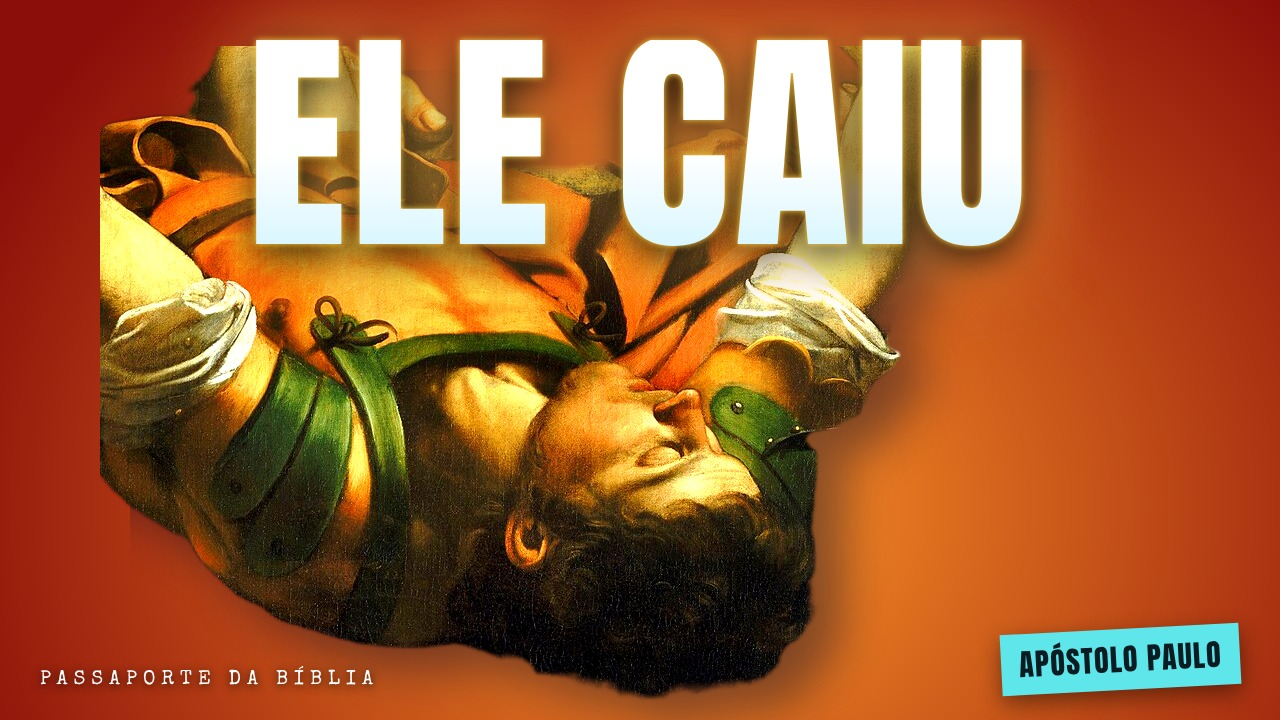
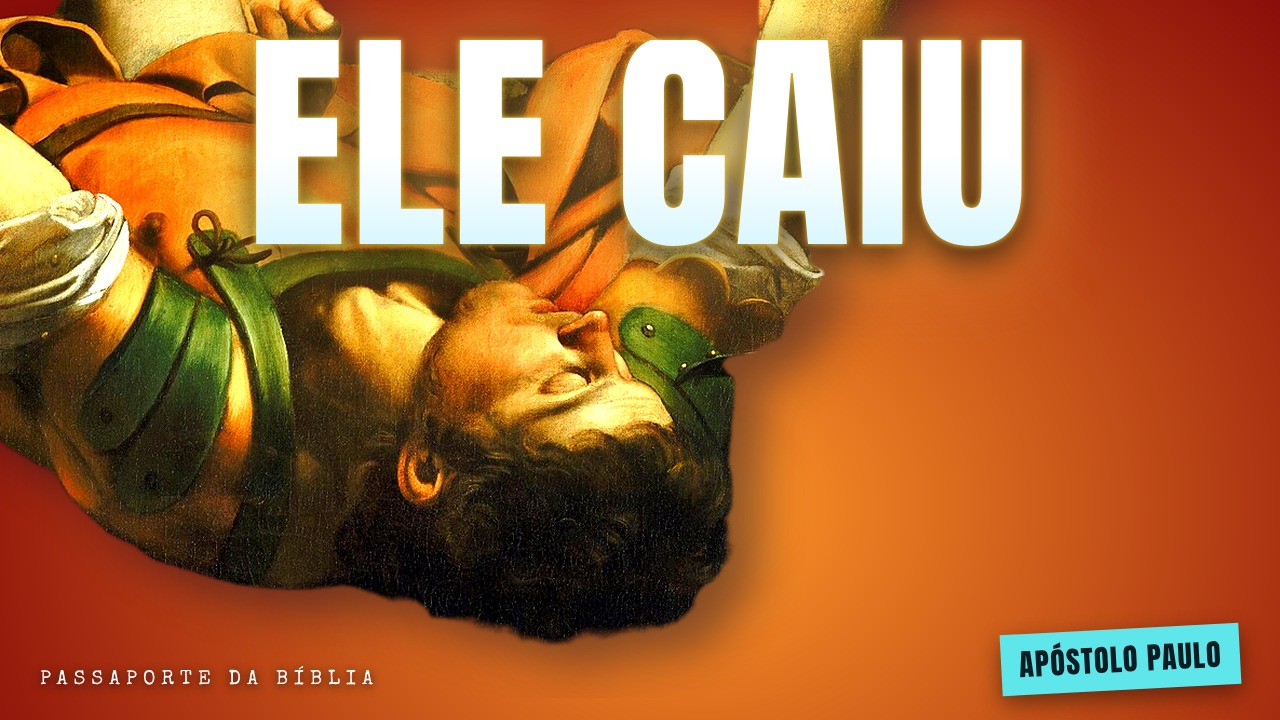
Passaporte: capas 10 e 11 aprovadas (padrão) e 3 opções da capa 12 com Caravaggio (conta Zuleide)
Claude-Session: https://claude.ai/code/session_01HVWyXPZiMC2jWfs5PZo8Nt

diff --git a/conteudo/youtube/passaporte/motor/previa_capa12.py b/conteudo/youtube/passaporte/motor/previa_capa12.py
@@ -1,0 +1,23 @@
+"""Prévia das 3 opções da capa 12 ao lado das capas 10 e 11 aprovadas, com o teste a 160 px.
+python3 previa_capa12.py -> ../capas-longos-10-12/previa-capa12-opcoes.jpg"""
+import os
+from PIL import Image, ImageDraw, ImageFont
+P = os.path.join(os.path.dirname(os.path.abspath(__file__)), '..', 'capas-longos-10-12')
+F = '/usr/share/fonts/opentype/inter/Inter-'
+def f(w, s): return ImageFont.truetype(F + w + '.otf', s)
+def th(p, w): return Image.open(os.path.join(P, p)).convert('RGB').resize((w, w * 9 // 16), Image.LANCZOS)
+W = 1920; TX = (241, 241, 241); CZ = (170, 170, 170)
+im = Image.new('RGB', (W, 1500), (15, 15, 15)); d = ImageDraw.Draw(im)
+d.text((40, 26), 'PASSAPORTE DA BÍBLIA · capa 12 (Paulo): 3 opções', font=f('Bold', 38), fill=TX)
+d.text((40, 74), 'em cima as aprovadas 10 e 11; embaixo as 3 opções da 12 (Caravaggio, "Conversão de São Paulo", domínio público)', font=f('Regular', 22), fill=CZ)
+for i, (a, t) in enumerate([('capa-10.jpg', 'APROVADA · 10 · MILAGRE?'), ('capa-11.jpg', 'APROVADA · 11 · VOLTAR?')]):
+    im.paste(th(a, 900), (40 + i * 940, 120)); d.text((40 + i * 940, 632), t, font=f('Bold', 22), fill=(120, 230, 140))
+OP = [('capa-12a.jpg', 'Opção A · CEGO? · copia Epic History "MUTINY"'), ('capa-12b.jpg', 'Opção B · ELE CAIU · copia Ciência Todo Dia "FLOW"'),
+      ('capa-12c.jpg', 'Opção C · MUDOU · copia Johnny Harris')]
+for i, (a, t) in enumerate(OP):
+    im.paste(th(a, 600), (40 + i * 620, 690)); d.text((40 + i * 620, 1035), t, font=f('SemiBold', 20), fill=TX)
+y = 1100; d.text((40, y), 'Teste a 160 px (lista do celular)', font=f('Bold', 28), fill=TX); y += 54
+for i, (a, t) in enumerate([('capa-10.jpg', 'Os milagres de Jesus que ninguém…'), ('capa-11.jpg', 'Êxodo explicado: por que Israel…')] + [(o[0], 'Apóstolo Paulo: o perseguidor… (' + o[1][6] + ')') for o in OP]):
+    x = 40 + (i % 3) * 620; yy = y + (i // 3) * 110
+    im.paste(th(a, 160), (x, yy)); d.text((x + 172, yy + 4), t, font=f('SemiBold', 17), fill=TX); d.text((x + 172, yy + 30), 'Passaporte da Bíblia', font=f('Regular', 15), fill=CZ)
+im.crop((0, 0, W, y + 230)).save(os.path.join(P, 'previa-capa12-opcoes.jpg'), quality=88); print('ok')

diff --git a/conteudo/youtube/passaporte/motor/capa12_opcoes.py b/conteudo/youtube/passaporte/motor/capa12_opcoes.py
@@ -47,9 +47,9 @@ def b():
     # CIÊNCIA TODO DIA "FLOW": close no rosto de Saulo (olhos fechados, luz no rosto), fundo quente saturado,
     # "ELE CAIU" gigante atravessando com brilho.
     f = gradiente((255, 150, 40), (140, 14, 10), cx=.55, cy=.7, raio=1.0)
-    p = fig(1.0, (820, 420, 1920, 1100))
+    p = fig(1.08, (820, 420, 1920, 1100))
     return pagina(f'''<img class="l" style="inset:0" src="{fundo(f)}">
-<img class="l" style="left:{640 - p.width // 2 + 40}px;top:70px" src="{uri(sombra(p, .45, 22))}"><img class="l" style="left:{640 - p.width // 2 + 10}px;top:46px" src="{uri(p)}">
+<img class="l" style="left:-10px;top:-36px" src="{uri(sombra(p, .45, 22))}"><img class="l" style="left:-40px;top:-60px" src="{uri(p)}">
 <div class="t" style="left:0;right:0;top:40px;text-align:center;font-size:240px;letter-spacing:.02em;
  background:linear-gradient(180deg,#fff 55%,#d9f6ff);-webkit-background-clip:text;color:transparent;
  filter:drop-shadow(0 0 3px #FFD23F) drop-shadow(0 12px 18px rgba(0,0,0,.75)) drop-shadow(0 0 40px rgba(255,190,80,.7))">ELE CAIU</div>

diff --git a/MEMORIA-DO-LINDSON.md b/MEMORIA-DO-LINDSON.md
@@ -429,3 +429,4 @@ Compilado em 03/11/2026 pela conta Lindson, a partir da conversa completa (22/10
 - **10/11/2026 (conta Zuleide) · VEKTOR v4:** "ele não conversa comigo"; "quero que entenda tudo que eu falo em pt-BR e converse comigo, não só responda… como o JARVIS do Homem de Ferro". O VEKTOR agora conversa pelo Claude (`/api/vektor`), com memória da sessão, frases curtas faladas, interrupção e confirmação antes de mandar pedido. Aviso no celular ficou para depois (decisão dele). Aguardando ele ativar o segredo ANTHROPIC_API_KEY e dar a opinião.
 - **10/11/2026 (Zuleide):** Lindson prefere o estilo das referências (Epic History/Ciência Todo Dia/Johnny Harris), colorido e jovem; capas v3 aguardando OK (`conteudo/youtube/passaporte/capas-longos-10-12/capa-10/11/12.jpg`, prévia `previa-v3.jpg`, gerador `motor/capas_jovem.py`; a v2 ficou em `v2/`).
 - **10/11/2026 (Zuleide) · APROVADO:** capas v3 dos longos 10 ("MILAGRE?") e 11 ("VOLTAR?") do Passaporte, estilo jovem copiado de Epic History e Ciência Todo Dia ("ficaram ótimas"). **REPROVADO:** a 12 "PERSEGUIDOR" (refazendo).
+- **10/11/2026 (Zuleide) · APROVADO, PADRÃO DE CAPA DE LONGO DO PASSAPORTE:** capas v3 10 "MILAGRE?" e 11 "VOLTAR?" ("as duas ficaram ótimas"). Padrão daqui em diante: cor viva e saturada, personagem recortado e nítido (gravura ou mestre clássico em alta, domínio público) na frente ou atrás de 1 palavra gigante branca em Anton (no máximo 2 palavras curtas, até 1 em amarelo), composição copiada de Epic History "MUTINY" / Ciência Todo Dia "FLOW" / Johnny Harris, "PASSAPORTE DA BÍBLIA" pequeno + etiqueta ciano da série. Gerador `conteudo/youtube/passaporte/motor/capas_jovem.py`. **REPROVADA:** a 12 "PERSEGUIDOR" (palavra longa, rosto macio, cena escura). Refeita em 3 opções (Caravaggio) aguardando escolha: `capas-longos-10-12/previa-capa12-opcoes.jpg`.

diff --git a/conteudo/youtube/passaporte/capas-longos-10-12/TEMPLATE.md b/conteudo/youtube/passaporte/capas-longos-10-12/TEMPLATE.md
@@ -1,3 +1,21 @@
+# Capa 12 (Paulo) · 3 opções (10/11/2026, conta Zuleide)
+
+Retorno do Lindson sobre a v3: "as duas ficaram ótimas, só o perseguidor que não". **10 e 11 APROVADAS** (padrão de capa de longo do Passaporte, ver MEMORIA). A 12 "PERSEGUIDOR" foi reprovada (palavra longa, rosto macio, cena escura) e está em `v3-reprovada/`.
+
+- Base nova: **Caravaggio, "Conversão de São Paulo"** (1600-01, Santa Maria del Popolo, Roma), domínio público, Wikimedia Commons, 1920 px (`fontes/caravaggio-conversao-de-sao-paulo-commons-1920.jpg`). Rosto grande, luz forte, manto vermelho.
+- Recorte `fontes/recorte-saulo-caravaggio.png`: BiRefNet portrait + chave de luz no braço direito, ficando só o maior pedaço, com os restos do cavalo apagados.
+- Gerador `motor/capa12_opcoes.py` → `capa-12a.jpg`, `capa-12b.jpg`, `capa-12c.jpg`. Prévia `motor/previa_capa12.py` → `previa-capa12-opcoes.jpg` (ao lado das 10 e 11 aprovadas, com teste a 160 px).
+
+| Opção | Palavra | Copia | Como ficou |
+|---|---|---|---|
+| A | **CEGO?** | Epic History "MUTINY" | fundo azul vivo com nuvens e feixe de luz, Saulo caído com os braços erguidos na frente da palavra, selo do canal |
+| B | **ELE CAIU** | Ciência Todo Dia "FLOW" | close no rosto de Saulo de olhos fechados, fundo laranja e vermelho saturado, palavra com brilho por cima |
+| C | **MUDOU** | Johnny Harris | céu aberto de fim de tarde e horizonte limpo, Saulo à direita contra o sol, palavra à esquerda |
+
+**Status: aguardando o Lindson escolher A, B ou C** (a escolhida vira `capa-12.jpg`).
+
+---
+
 # Capas dos longos 10 a 12 · v3 "jovem" (10/11/2026, conta Zuleide, designer gráfico)
 
 Pedido do Lindson ao ver a v2: "na verdade eu gosto desse estilo (as 3 referências), copie para fazer as nossas assim, mais jovens".
